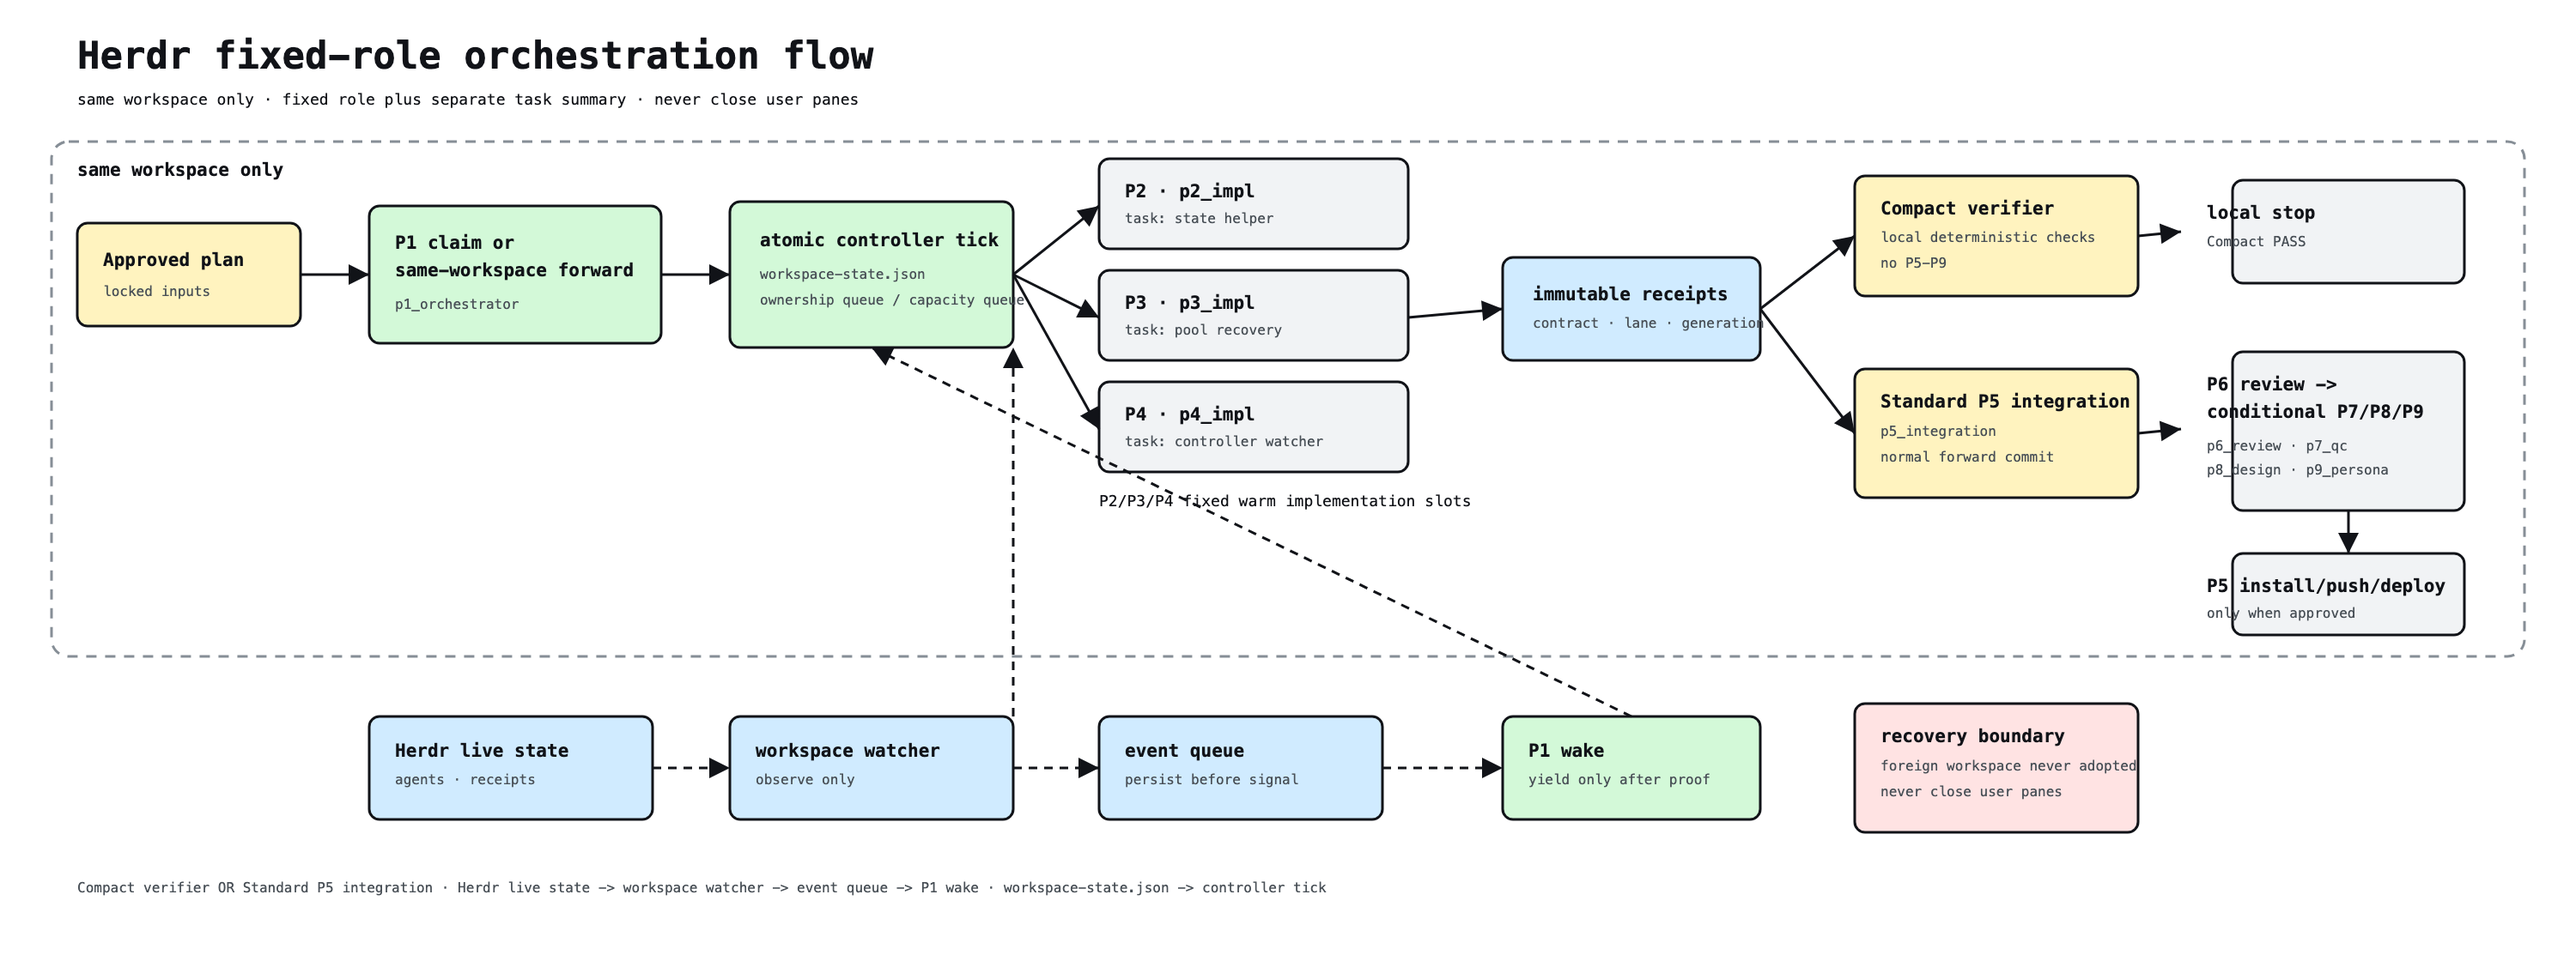
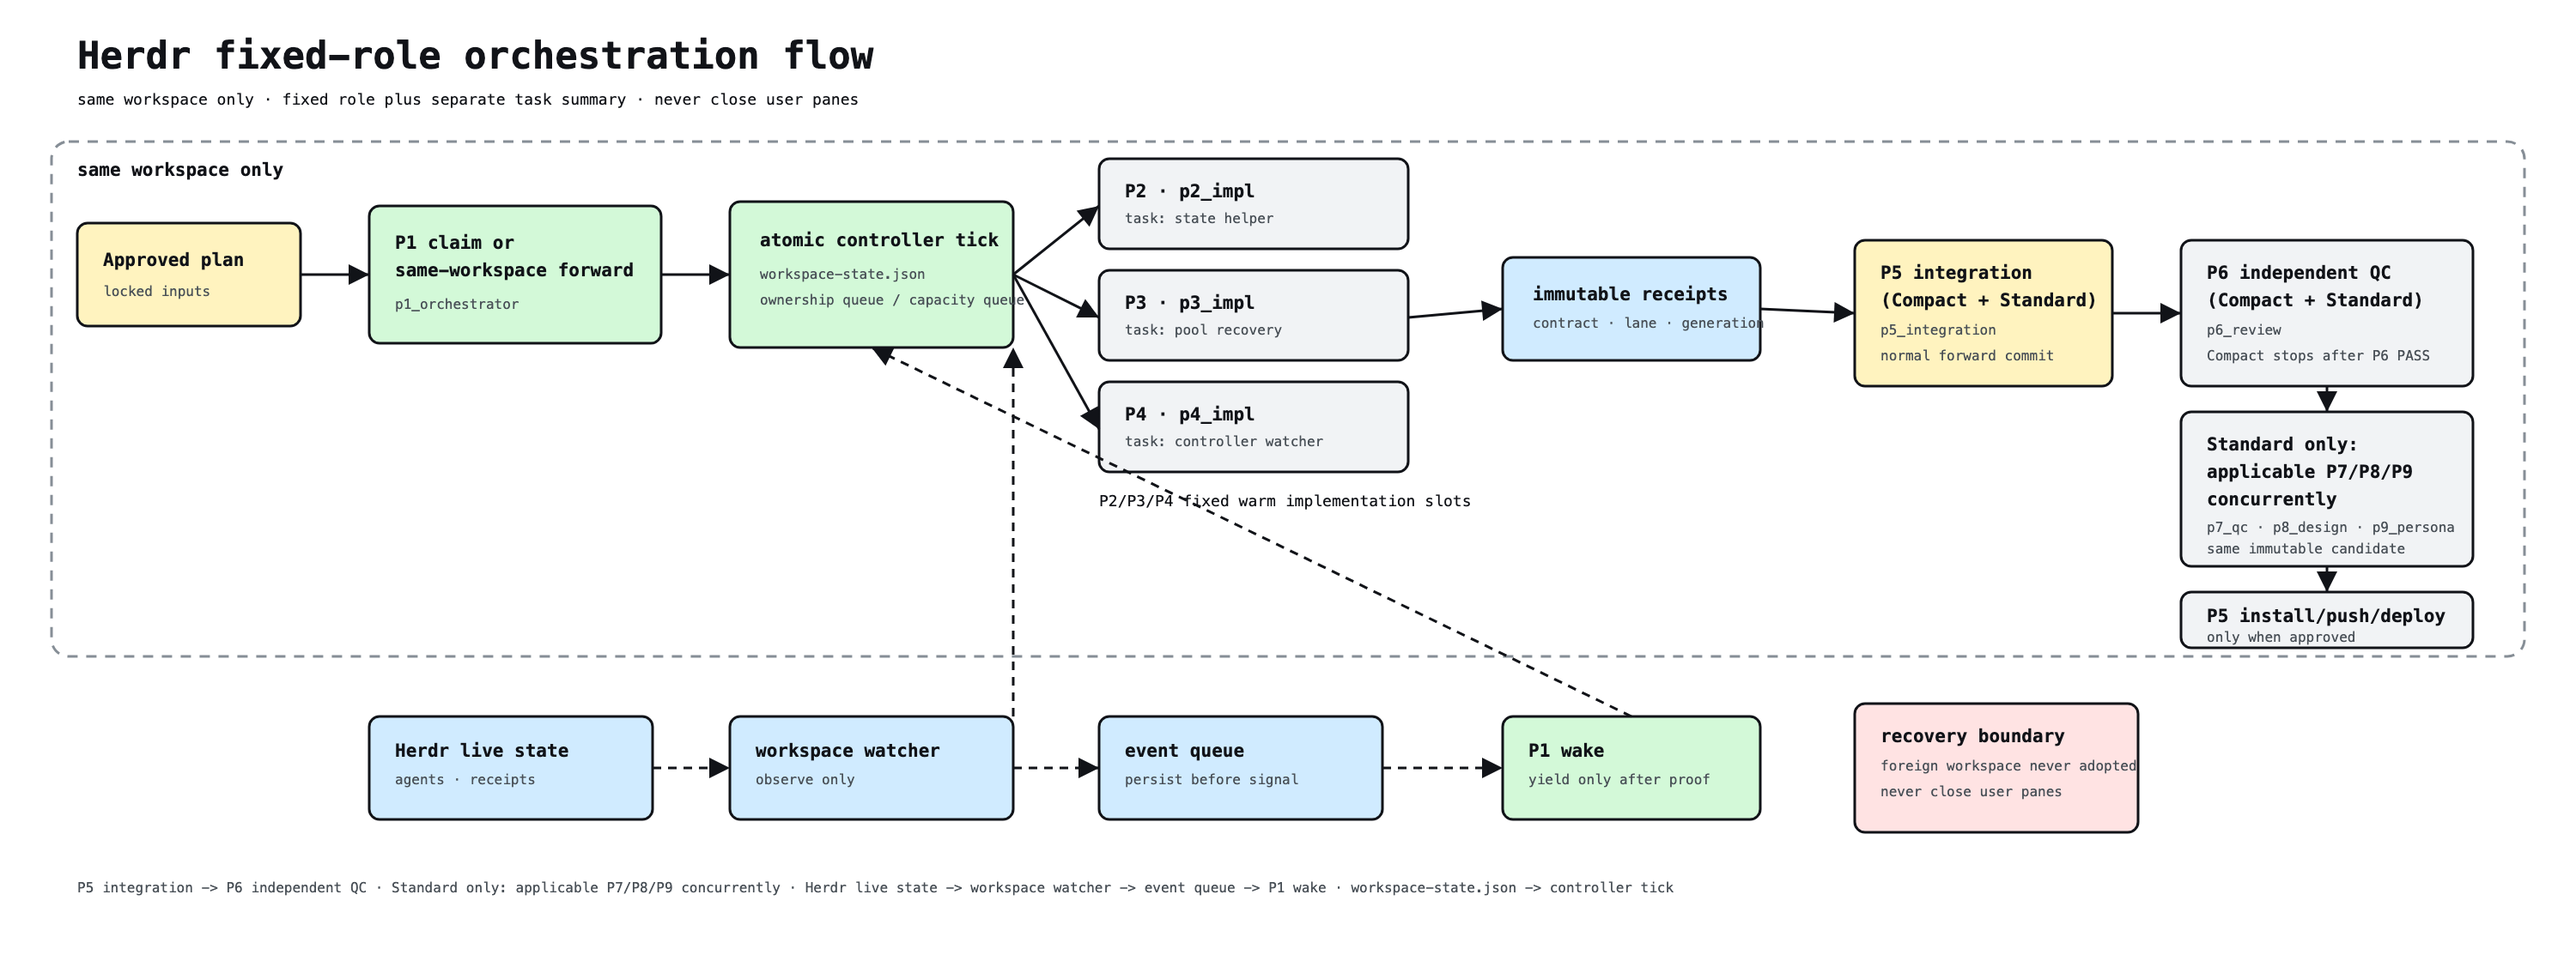
fix: align delivery graph with mandatory gates

Changed region(s): [[0.682, 0.1833, 0.961, 0.7026], [0.031, 0.9164, 0.651, 0.947]]

diff --git a/scripts/test_p1_contract.py b/scripts/test_p1_contract.py
@@ -3,6 +3,8 @@ import re
 import unittest
 from pathlib import Path
 
+from scripts.verify_assets import REQUIRED_TEXT
+
 
 ROOT = Path(__file__).resolve().parents[1]
 
@@ -32,7 +34,7 @@ class P1BoundaryTests(unittest.TestCase):
             "It never implements, tests, integrates, reviews, commits, pushes, or deploys",
             "P5 integrates accepted worker outputs",
             "P6 reviews",
-            "Compact verifier",
+            "P6 independent QC",
         ]
         for marker in required:
             self.assertIn(marker, self.corpus)
@@ -79,6 +81,17 @@ class P1BoundaryTests(unittest.TestCase):
             self.assertIn(marker, self.corpus)
         self.assertNotIn("disjoint P2-P4 paths", self.corpus)
 
+    def test_asset_validator_requires_current_delivery_contract(self):
+        required = " ".join(REQUIRED_TEXT)
+        for marker in [
+            "P5 integration (Compact + Standard)",
+            "P6 independent QC (Compact + Standard)",
+            "Standard only: applicable P7/P8/P9 concurrently",
+        ]:
+            self.assertIn(marker, required)
+        self.assertNotIn("Compact verifier", required)
+        self.assertNotIn("conditional P7/P8/P9", required)
+
     def test_graph_shows_required_flow(self):
         for marker in [
             "Approved plan",
@@ -86,13 +99,22 @@ class P1BoundaryTests(unittest.TestCase):
             "atomic controller tick",
             "P2/P3/P4 fixed warm implementation slots",
             "immutable receipts",
-            "Compact verifier OR Standard P5 integration",
-            "P6 review -> conditional P7/P8/P9",
+            "P5 integration (Compact + Standard)",
+            "P6 independent QC (Compact + Standard)",
+            "Standard only: applicable P7/P8/P9 concurrently",
             "P5 install/push/deploy",
             "Herdr live state -> workspace watcher -> event queue -> P1 wake",
             "never close user panes",
         ]:
             self.assertIn(marker, self.asset_text)
+
+        for obsolete in [
+            "Compact verifier",
+            "Compact PASS",
+            "no P5-P9",
+            "conditional P7/P8/P9",
+        ]:
+            self.assertNotIn(obsolete, self.asset_text)
 
         self.assertNotIn("foreign workspace adopted", self.asset_text)
 

diff --git a/scripts/verify_assets.py b/scripts/verify_assets.py
@@ -26,8 +26,9 @@ REQUIRED_TEXT = (
     "P2/P3/P4 fixed warm implementation slots",
     "ownership queue / capacity queue",
     "immutable receipts",
-    "Compact verifier OR Standard P5 integration",
-    "P6 review -> conditional P7/P8/P9",
+    "P5 integration (Compact + Standard)",
+    "P6 independent QC (Compact + Standard)",
+    "Standard only: applicable P7/P8/P9 concurrently",
     "P5 install/push/deploy",
     "Herdr live state -> workspace watcher -> event queue -> P1 wake",
     "workspace-state.json -> controller tick",
